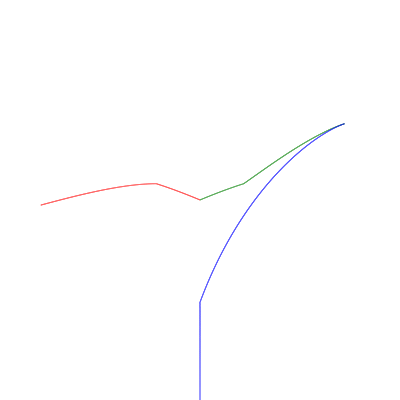
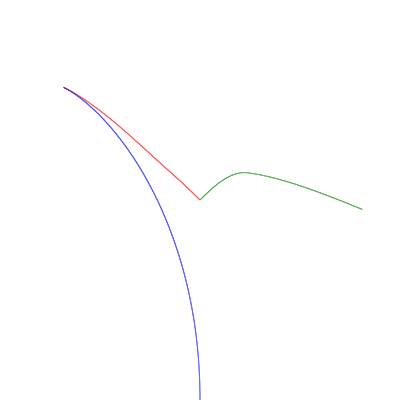
update

diff --git a/wolf-sheep-cn.html b/wolf-sheep-cn.html
@@ -206,14 +206,16 @@ class="math inline">||<em>A</em><em>B</em>||</span> 最大.</p>
 两羊距离 1.6142636006096867, 总时间 5.003527201219288</p>
 <p>实现见 <a href="./wolf-sheep/greedy.js">wolf-sheep.js</a></p>
 <h1 id="羊的策略-抄近路">羊的策略 (抄近路)</h1>
-<p>A 羊策略保持贪心不变, 如果预先知道 A 羊被捉时的位置 (记为 F). 则 B
-羊应当尽量选择远离 F 的方向, 同时保证 <span
+<p>如果预先知道 A 羊被捉时 A 羊的位置 (记为 F) 和 B 羊的位置 (记为 G).
+则 A 羊应选择使 <span
+class="math inline">||<em>W</em><em>A</em>|| + ||<em>A</em><em>G</em>||</span>
+最大的方向, 而 B 羊应当尽量选择远离 F 的方向, 同时保证 <span
 class="math inline">||<em>W</em><em>B</em>|| ≤ ||<em>W</em><em>A</em>||</span>.</p>
 <p>结果如图 <img src="./wolf-sheep/tricky.png" alt="tricky.png" /> 另见
 <a href="./wolf-sheep/racing.html">racing.html</a> tricky 策略结果</p>
-<p>在时刻 1.782 时, 狼在坐标 (-0.6736426030495334, 0.580321987597853)
-捉到羊 A. 此时羊 B 位于 (0.7890167721159783, -0.11884969830167355),
-两羊相距 1.6211765770955215. 总时间 5.024353154190957.</p>
+<p>在时刻 1.819 时, 狼在坐标 (-0.6467803614726987, 0.6345802337671108)
+捉到羊 A. 此时羊 B 位于 (0.7832758424369813, -0.10277986541692728),
+两羊相距 1.6089626043538923 总时间 5.036925208707695.</p>
 <p>实现见 <a href="./wolf-sheep/tricky.js">wolf-sheep.js</a>.</p>
 </body>
 </html>

diff --git a/wolf-sheep/tricky.js b/wolf-sheep/tricky.js
@@ -3,19 +3,20 @@ class TrickyStrategy extends DefaultStrategy {
 
   constructor(dt) {
     super()
-    this.final = {"x":-0.6772363455269725,"y":0.5739168632777377}
+    this.final1 = {"x":-0.6502053848303994,"y":0.6288089665383846}
+    this.final2 = {"x":0.7844011950442196,"y":-0.10195242127013827}
     this.dt = dt
   }
 
   stepSheepImpl(wolf, sheep1, sheep2) {
-    const dir1 = this.stepSheepNearWolf(wolf, sheep1, sheep2)
+    const dir1 = this.stepSheepNearWolf(wolf, sheep1, this.final2)
     var ns = new Agent(sheep1.x, sheep1.y, sheep1.speed)
     ns.moveInDir(dir1.x, dir1.y, this.dt)
     const d1 = wolf.distanceTo(ns) + 0.000000000001
 
-    // keep distance(sheep2, wolf) >= d1, maximize distance(final, sheep2)
+    // keep distance(sheep2, wolf) >= d1, maximize distance(final1, sheep2)
     ns = new Agent(sheep2.x, sheep2.y, sheep2.speed)
-    var dir2 = coord(sheep2.x - this.final.x, sheep2.y - this.final.y)
+    var dir2 = coord(sheep2.x - this.final1.x, sheep2.y - this.final1.y)
     ns.moveInDir(dir2.x, dir2.y, this.dt)
     if (d1 <= ns.distanceTo(wolf)) {
       return [dir1, dir2]

diff --git a/wolf-sheep.html b/wolf-sheep.html
@@ -199,13 +199,15 @@ alt="greedy.png" /></p>
 <p>total time: 5.003527201219288.</p>
 <p>source code: <a href="./wolf-sheep/greedy.js">wolf-sheep.js</a></p>
 <h1 id="sheep-strategy-tricky">Sheep Strategy: Tricky</h1>
-<p>If we know location F where sheep A is caught, then sheep B should
-run away from F, while keeping <span
+<p>If we know final locations (sheep A at F, sheep B at G) when sheep A
+is caught, then sheep A should choose direction that maximizes <span
+class="math inline">||<em>W</em><em>A</em>|| + ||<em>A</em><em>G</em>||</span>,
+while sheep B should run away from F and keeping <span
 class="math inline">||<em>W</em><em>B</em>|| ≥ ||<em>W</em><em>A</em>||</span>.</p>
 <p>Result from page <a href="./wolf-sheep/racing.html">racing.html</a>
 tricky strategy: <img src="./wolf-sheep/tricky.png"
 alt="tricky.png" /></p>
-<p>total time: 5.024353154190957.</p>
+<p>total time: 5.036925208707695.</p>
 <p>source code: <a href="./wolf-sheep/tricky.js">wolf-sheep.js</a></p>
 </body>
 </html>

diff --git a/wolf-sheep.md b/wolf-sheep.md
@@ -34,12 +34,13 @@ source code: [wolf-sheep.js](./wolf-sheep/greedy.js)
 
 # Sheep Strategy: Tricky
 
-If we know location F where sheep A is caught, then sheep B should run away from F,
-while keeping $||WB||\ge||WA||$.
+If we know final locations (sheep A at F, sheep B at G) when sheep A is caught,
+then sheep A should choose direction that maximizes $||WA||+||AG||$,
+while sheep B should run away from F and keeping $||WB||\ge||WA||$.
 
 Result from page [racing.html](./wolf-sheep/racing.html) tricky strategy:
 ![tricky.png](./wolf-sheep/tricky.png)
 
-total time: 5.024353154190957.
+total time: 5.036925208707695.
 
 source code: [wolf-sheep.js](./wolf-sheep/tricky.js)
